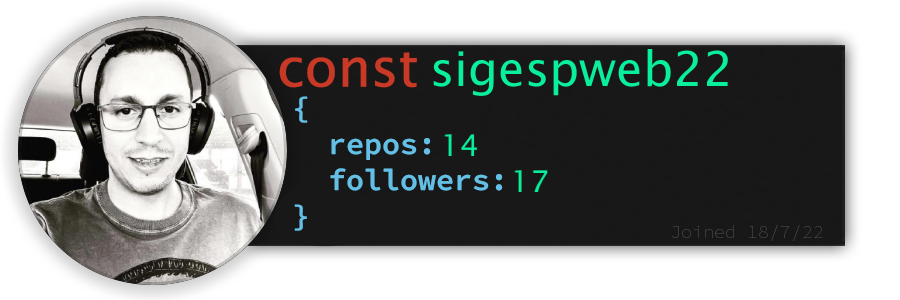
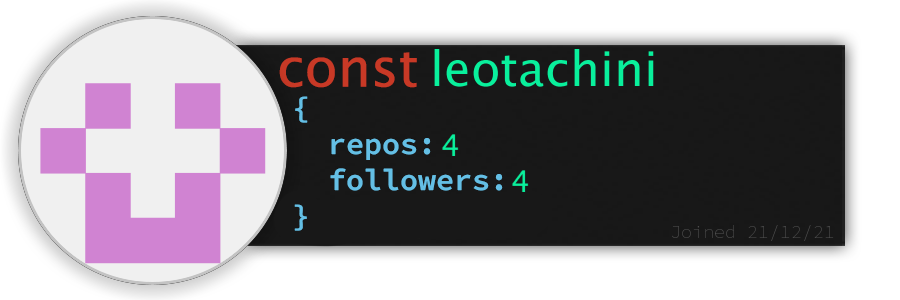
Update README.md

diff --git a/src/replacers/randomImage.js b/src/replacers/randomImage.js
@@ -1,5 +1,5 @@
 module.exports = async function () {
-  imageTypes=['code', 'hacker', 'internet', 'computer', 'web', 'java', 'technology', 'javascript']
+  imageTypes=['code', 'hacker', 'mobile', 'computer', 'web', 'java', 'technology', 'javascript']
 
   const randomImageType = Math.floor(Math.random() *  imageTypes.length)
 

diff --git a/README.md b/README.md
@@ -45,10 +45,10 @@
  <hr>
 <div align="center">
   <a href="https://github.com/ViniciusCestarii">
-    <img  align="center" height = "170em" src="https://github-readme-stats-git-masterrstaa-rickstaa.vercel.app/api?username=ViniciusCestarii&show_icons=true&theme=chartreuse-dark" />
+    <img  align="center" height = "170em" src="https://github-readme-stats.vercel.app/api?username=ViniciusCestarii&show_icons=true&theme=chartreuse-dark" />
   </a>
   <a href="https://github.com/ViniciusCestarii">
-    <img align="center" height = "170em"  src="https://github-readme-stats-git-masterrstaa-rickstaa.vercel.app/api/top-langs/?username=ViniciusCestarii&layout=compact&theme=chartreuse-dark" />
+    <img align="center" height = "170em"  src="https://github-readme-stats.vercel.app/api/top-langs/?username=ViniciusCestarii&layout=compact&theme=chartreuse-dark" />
   </a>
 </div>
 <br>
@@ -83,7 +83,7 @@
 <div align="center">
 <p>Random follower of the day: </p>
 
-<a href="https://github.com/sigespweb22" alt="Alan L. Rezende"><img style="height:150px;" src=./src/resources/images/randomFollower.png alt="Follower of the day"/></a>
+<a href="https://github.com/leotachini" alt="lelotachini"><img style="height:150px;" src=./src/resources/images/randomFollower.png alt="Follower of the day"/></a>
 
 <p>My last follower: </p>
 
@@ -94,7 +94,7 @@
 
 *This section is updated via Javascript.*
 <div align="center">
-  <img align="center" alt="Random unsplash image" width="1000" height="500" src="https://source.unsplash.com/random/1000x500/?code" />
+  <img align="center" alt="Random unsplash image" width="1000" height="500" src="https://source.unsplash.com/random/1000x500/?computer" />
 </div>
 
 

diff --git a/README_TEMPLATE.md b/README_TEMPLATE.md
@@ -45,10 +45,10 @@
  <hr>
 <div align="center">
   <a href="https://github.com/ViniciusCestarii">
-    <img  align="center" height = "170em" src="https://github-readme-stats-git-masterrstaa-rickstaa.vercel.app/api?username=ViniciusCestarii&show_icons=true&theme=chartreuse-dark" />
+    <img  align="center" height = "170em" src="https://github-readme-stats.vercel.app/api?username=ViniciusCestarii&show_icons=true&theme=chartreuse-dark" />
   </a>
   <a href="https://github.com/ViniciusCestarii">
-    <img align="center" height = "170em"  src="https://github-readme-stats-git-masterrstaa-rickstaa.vercel.app/api/top-langs/?username=ViniciusCestarii&layout=compact&theme=chartreuse-dark" />
+    <img align="center" height = "170em"  src="https://github-readme-stats.vercel.app/api/top-langs/?username=ViniciusCestarii&layout=compact&theme=chartreuse-dark" />
   </a>
 </div>
 <br>
